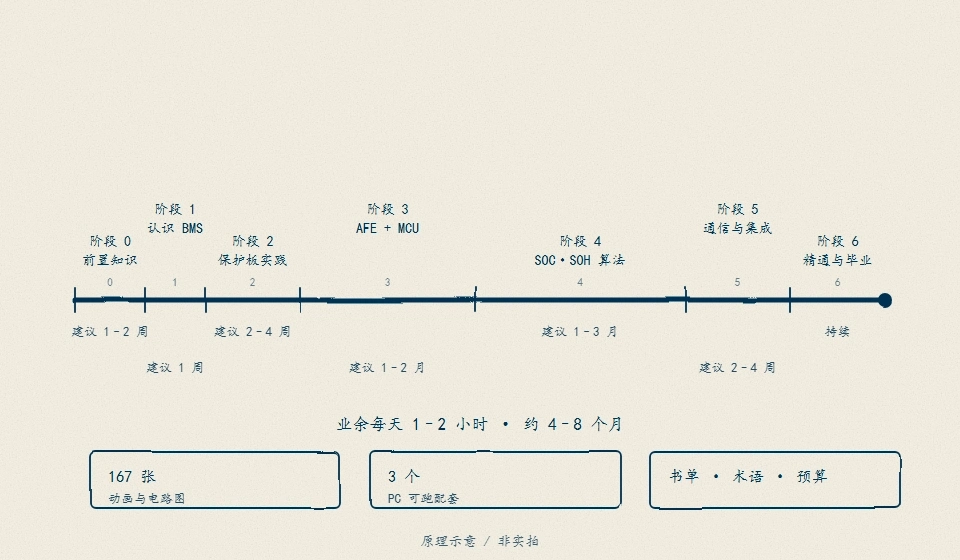
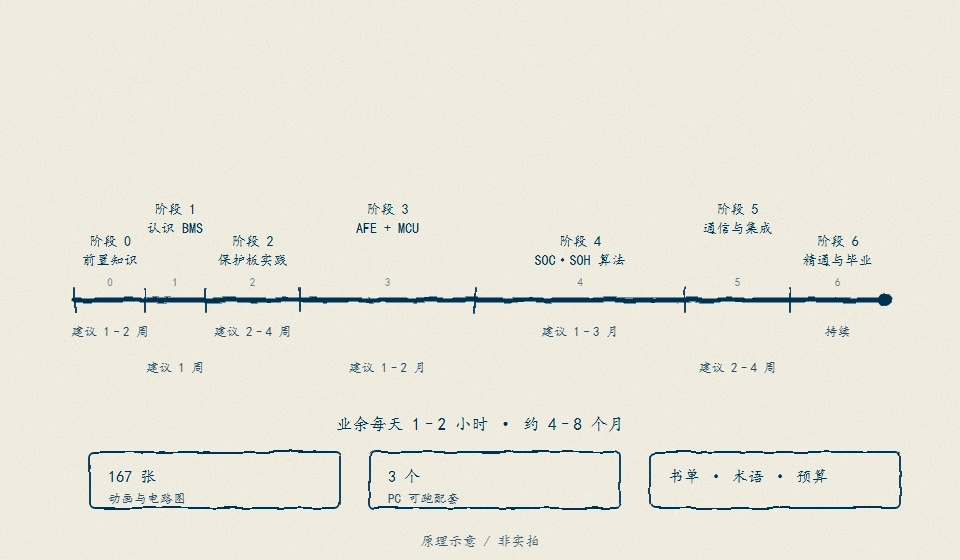
style(handraw): high-frequency tremor wobble after A/D blind review

diff --git a/docs/superpowers/plans/2026-11-04-handraw-visual-overhaul.md b/docs/superpowers/plans/2026-11-04-handraw-visual-overhaul.md
@@ -839,7 +839,7 @@ Plan 路径：`docs/superpowers/plans/2026-11-04-handraw-visual-overhaul.md`。
 | Task 0 脚手架 + 画风包草案 | 完成 | `5b5314c`；20/20 `source_svg` 存在；五处目录 + `.gitkeep`；`README.md`；`docs/visual-style-pack.md` |
 | Task 1 manifest + 校验 | 完成 | `e9ae2f8`；`tools/check_handraw_manifest.py`；`bms-book/tests/test_handraw_manifest.py`（红→绿）；20 条 `prompts_only` |
 | Task 2 20 条 prompts | 完成 | `4307f97`；`prompts/` 共 20 个 `.md`；帧数=大纲步数、必含字面量、色板转换均逐条核对 |
-| Task 3 渲染帧 | **完成 2/20（自绘）** | 用户改口「你可以自己绘图」，不再走图像网关。手写 SVG 帧 → Edge 无头栅格化 960×560 → WebP q97：`bms-roadmap`、`bms-signal-budget` 各 6 帧（`storyboard/<slug>/frame-01…06.webp`，同名 `.svg` 为矢量源）。像素核对：主轴 754–819 暗点/行、背景颗粒 σ≈2.37、无红色像素；Claude 视觉复核确认无压字/出界。关键坑：`objectBoundingBox` 滤镜在水平线（零高度 bbox）上整条不渲染，改 `filterUnits="userSpaceOnUse"` 后才出轴 |
+| Task 3 渲染帧 | **完成 2/20（自绘）** | 用户改口「你可以自己绘图」，不再走图像网关。手写 SVG 帧 → Edge 无头栅格化 960×560 → WebP q97：`bms-roadmap`、`bms-signal-budget` 各 6 帧（`storyboard/<slug>/frame-01…06.webp`，同名 `.svg` 为矢量源）。像素核对：主轴 754–819 暗点/行、背景颗粒 σ≈2.37、无红色像素；Claude 视觉复核确认无压字/出界。关键坑：`objectBoundingBox` 滤镜在水平线（零高度 bbox）上整条不渲染，改 `filterUnits="userSpaceOnUse"` 后才出轴。抖动档经 A/D 盲评（当前档 2 分 vs `baseFrequency 0.05` + `scale 4.5` 得 4 分）改采后者，重出后主轴/0.2 ms 细条/标签结构复核通过（4/5 手绘感，无压字、无红色） |
 | Task 4 导出 + 试点换链 | **Step 1–2 完成；Step 3–5 推迟** | `exported=2 skipped=18 failed=0`；两条动画 6 帧、每帧 1200 ms、loop=0；`export` 字段落盘，manifest 状态 `exported`。换链推迟到归档批次：`check_docs` 要求 assets ↔ 索引双向一致，索引改指 WebP 即让旧 SVG 变孤儿；同批还需改 `bms-book/book/20-*`、`docs/book/20-*`、`bms-book/assets/print/`、`motion_fingerprints.json`、`curriculum/concepts.json` 与 167 张计数，不能只改两处正文 |
 | Task 5 归档 + 抽检 | **未执行（依赖 Task 4）** | 归档会破坏 167 张 SVG 门禁与正文链接 |
 | Task 6 Step 1 批次勾选 | **未执行（无帧）** | 不在无产物时填「完成」 |
@@ -853,6 +853,7 @@ Plan 路径：`docs/superpowers/plans/2026-11-04-handraw-visual-overhaul.md`。
 - 渲染介质改为自绘（2026-11-05）：用户「你可以自己绘图」后不再调用图像模型；帧由手写 SVG 生成，Chromium 无头栅格化，Pillow 转 WebP。同一 slug 的 `.svg` 与 `.webp` 同名并存，前者是可编辑源、后者才是 manifest/导出的输入。
 - 自绘帧用到的 SVG 滤镜必须写 `filterUnits="userSpaceOnUse"`：水平线/垂直线用默认 `objectBoundingBox` 时 bbox 有一维为 0，整条线被裁掉（实测主轴 0 像素，改后 754–819）。
 - `bms-roadmap` 第 6 帧的入口卡写「167 张动画与电路图」。归档 2 张旧 SVG 后该数应为 165；归档批次必须同步改帧内文案与 docs 计数，否则图与清单互相打脸。
+- 视觉复核最终走 `qnaigc` 的 `deepseek/deepseek-v4-flash-vision-exp`（6–10 s；偶尔 `content` 为空，需读 `reasoning_content`）。3003 的 claude 通道连续 503/504，不再作为依赖；列出的 qwen/doubao 视觉模型均已退役（502 `retired`）。
 
 门禁（本地，2026-11-04）：
 
